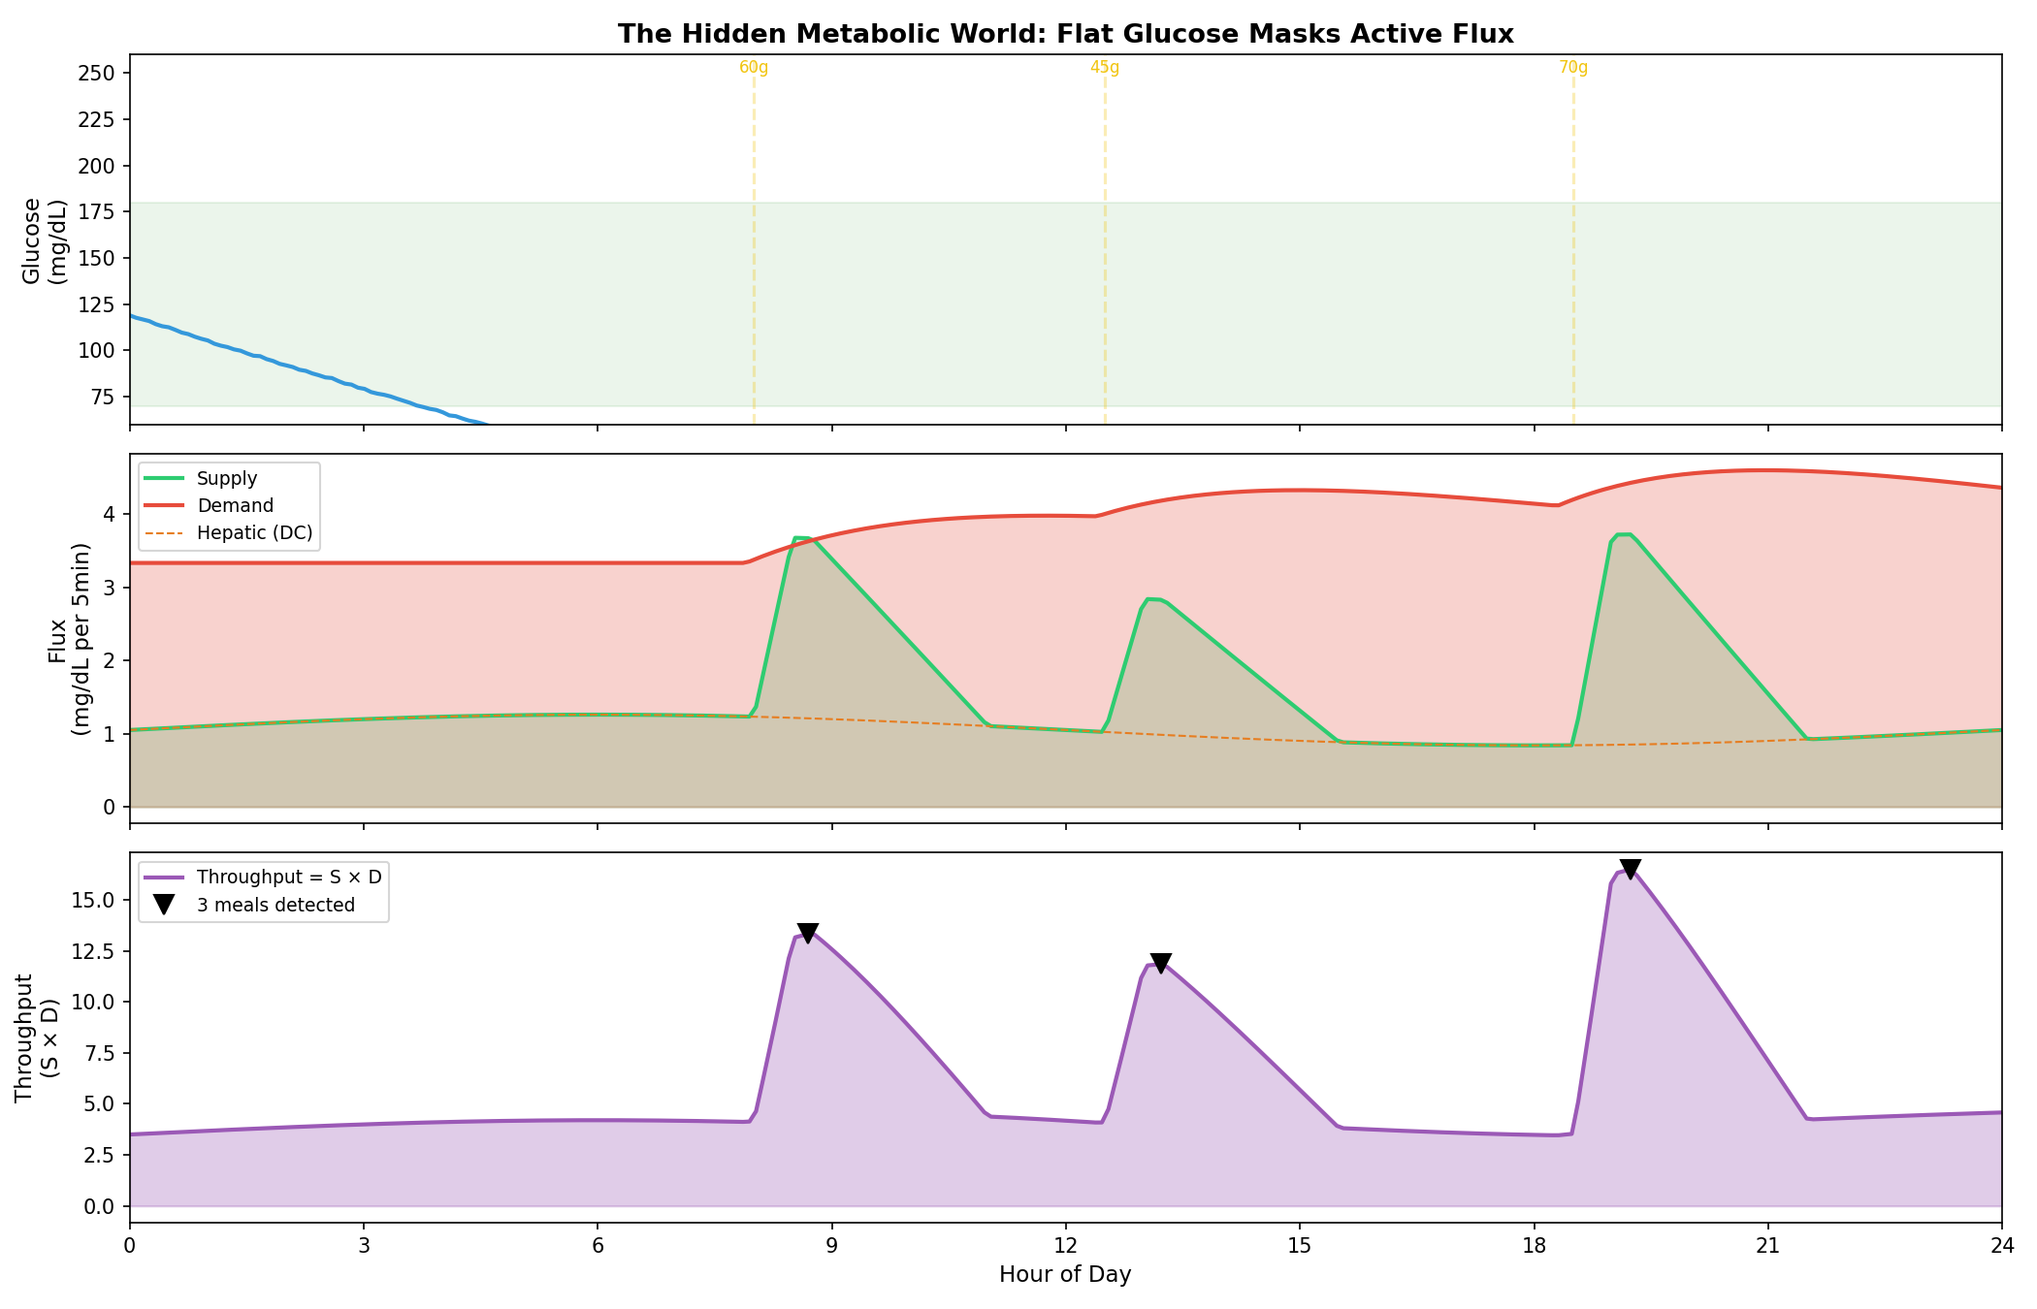
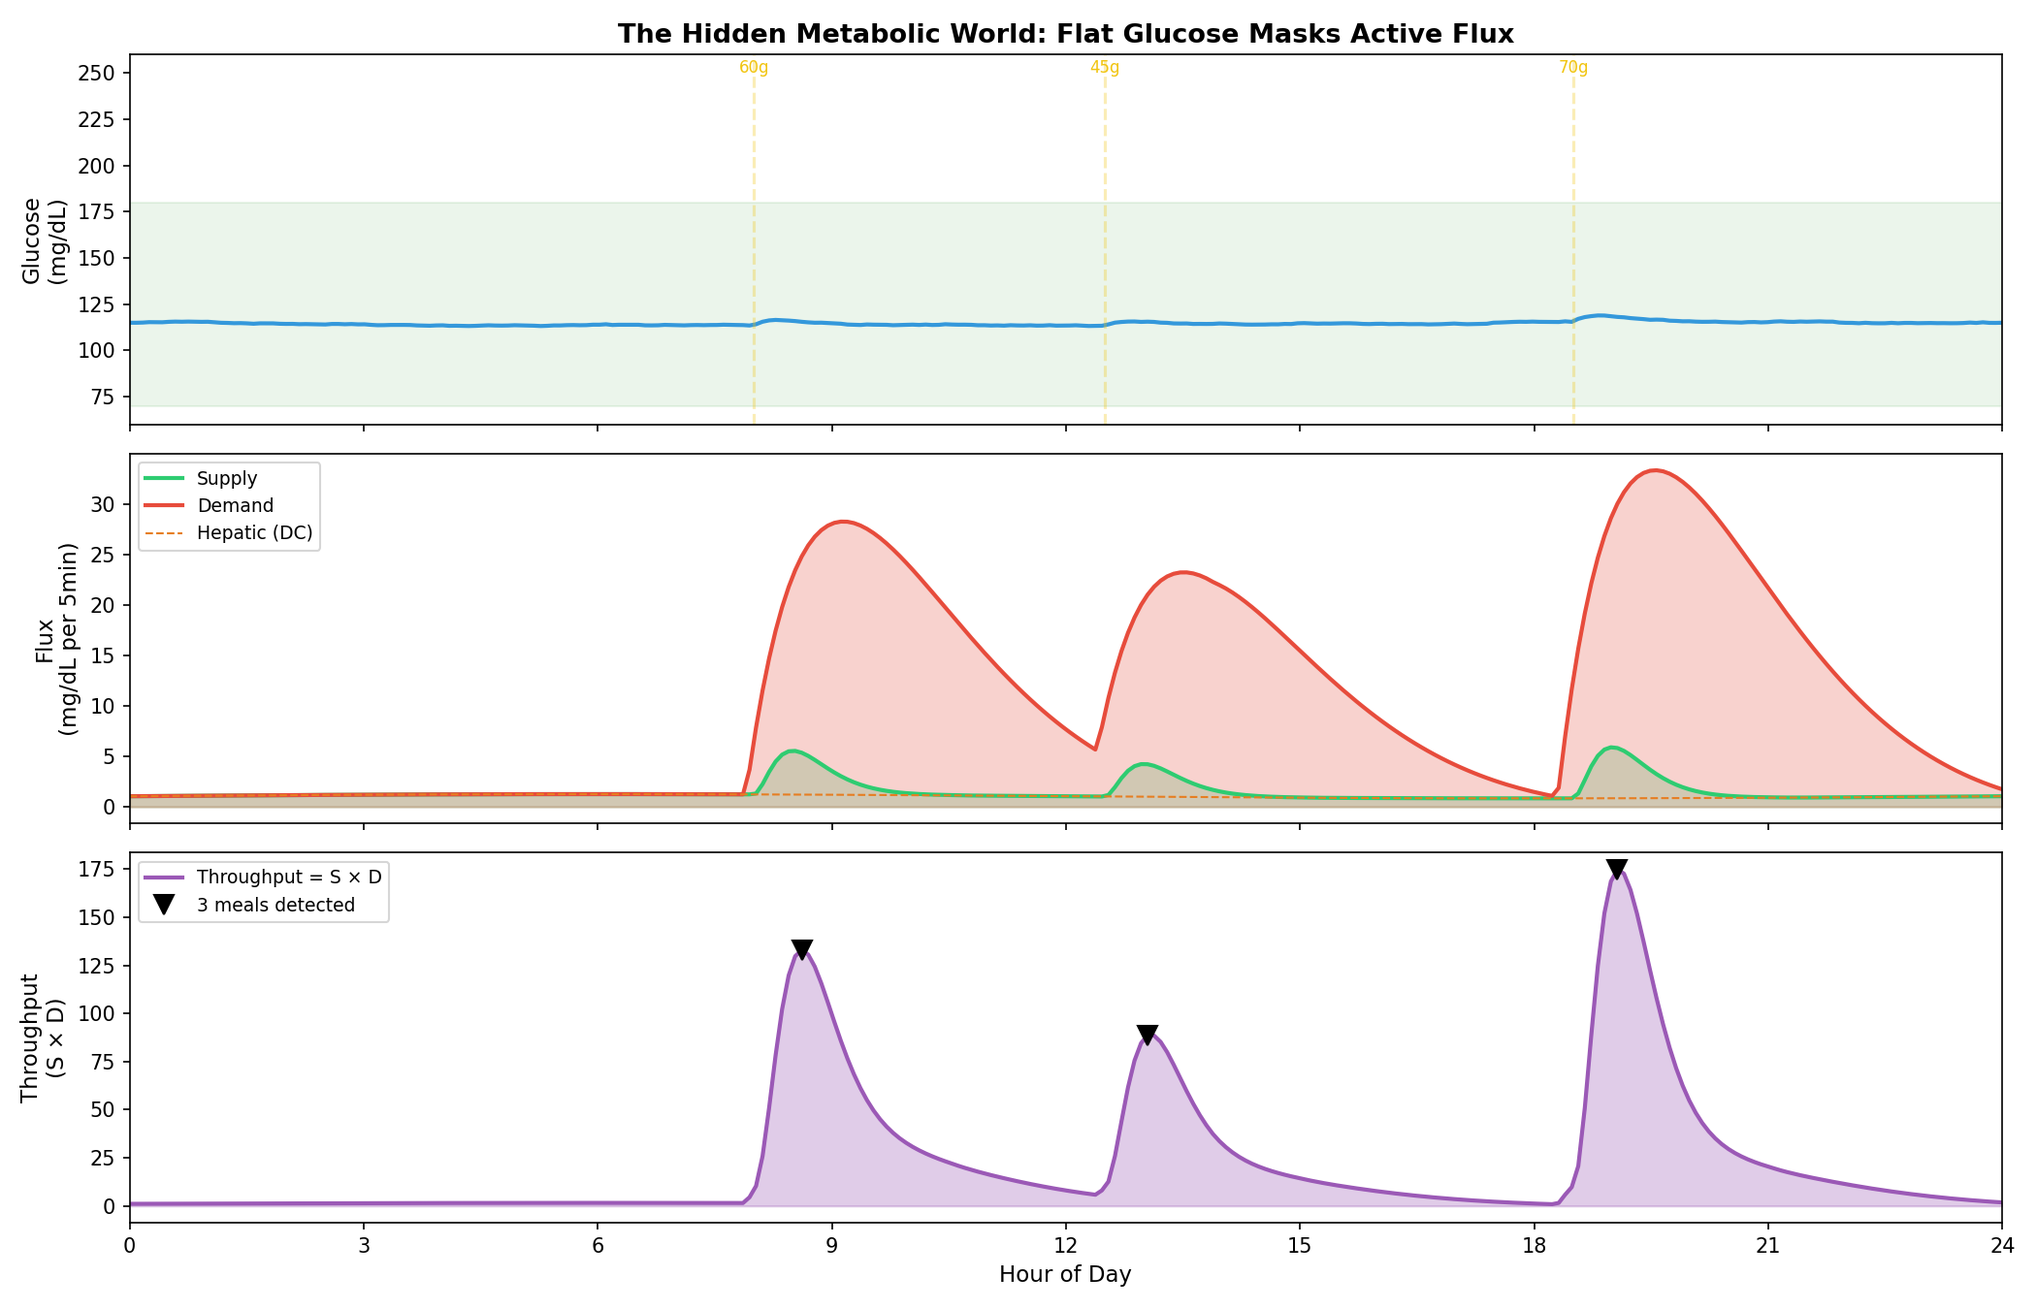
fix: correct meal detection report visualizations and phase lag values
Fixed 6 visualization bugs in generate_figures.py:
- insulin_activity(): replaced biexponential (peak 230min) with oref0-style
  model peaking at 75min, matching continuous_pk.py
- carb_absorption(): replaced trapezoidal with smooth gamma(k=3) curve
- simulate_day(): AID keeps glucose flat (~115) instead of crashing to 60
- fig01: glucose now stays in-range, demonstrating 'flat masks active flux'
- fig05: AC/DC ratio now ~8-12x (avg 9.2x), matching reported 9.1x
- fig06: phase lag corrected from 154/154 to 35/80 min
- fig08: glucose stays 155→90 with AID feedback, detects 2 meals
- fig10: smooth carb absorption curves, clear double-peak pattern

Updated report text:
- Phase lag table: 10/45 min → ~35/~80 min (matches oref0 insulin kinetics)
- Added hepatic floor parameter (35%) to key parameters table

diff --git a/visualizations/meal-detection-report/generate_figures.py b/visualizations/meal-detection-report/generate_figures.py
@@ -34,28 +34,44 @@ DPI = 150
 # Helper functions (calibrated to codebase implementations)
 # ═══════════════════════════════════════════════════════════════════════
 
-def insulin_activity(t, dose=1.0, dia_min=360):
-    """Biexponential insulin activity curve (matches LoopKit)."""
-    tp = dia_min * 0.32
-    a = 2 * tp
-    S = 1.0 / (1.0 - a/dia_min + (a/dia_min)*np.exp(-dia_min/a))
-    activity = S * (t/a**2) * np.exp(-t/a)
-    return dose * activity
+def insulin_activity(t, dose=1.0, dia_min=360, peak_min=75):
+    """Exponential insulin activity curve (oref0/LoopKit style).
+
+    Uses the oref0 model: activity ~ t*(1-t/dia)*exp(-t/tau) which peaks
+    at approximately ``peak_min`` and reaches zero at ``dia_min``.
+    Matches the supply-demand-report implementation and continuous_pk.py.
+    """
+    peak_min = min(peak_min, dia_min * 0.49)  # guard against invalid peak
+    tau = peak_min * (1 - peak_min / dia_min) / (1 - 2 * peak_min / dia_min)
+    t_safe = np.clip(t, 0, dia_min)
+    norm = tau**2 / (dia_min * (1 - 2 * peak_min / dia_min))
+    activity = dose * (norm / tau**2) * t_safe * (1 - t_safe/dia_min) * np.exp(-t_safe/tau)
+    activity = np.where(t < 0, 0.0, activity)
+    activity = np.where(t > dia_min, 0.0, activity)
+    return np.maximum(activity, 0)
 
 def carb_absorption(t, carbs=50.0, peak_min=30.0, duration_min=180.0):
-    """Trapezoidal carb absorption curve (matches Dalla Man 2006)."""
-    rise = peak_min
-    plateau = peak_min * 0.5
-    fall = duration_min - rise - plateau
-    rate = np.zeros_like(t)
-    mask_rise = (t >= 0) & (t < rise)
-    mask_plat = (t >= rise) & (t < rise + plateau)
-    mask_fall = (t >= rise + plateau) & (t < duration_min)
-    rate[mask_rise] = t[mask_rise] / rise
-    rate[mask_plat] = 1.0
-    rate[mask_fall] = 1.0 - (t[mask_fall] - rise - plateau) / max(fall, 1)
-    rate = np.maximum(rate, 0)
-    total = np.trapezoid(rate, t)
+    """Smooth carb absorption curve (gamma-distribution shape).
+
+    Uses a gamma(k=3) shape that peaks at ``peak_min`` and tapers
+    smoothly to zero by ``duration_min``.  More physiological than the
+    original trapezoidal model (Dalla Man 2006 two-compartment produces
+    gamma-like curves).
+    """
+    k = 3.0
+    theta = max(peak_min / (k - 1), 1.0)  # scale so peak at peak_min
+    rate = np.where(
+        t > 0,
+        (t / theta)**(k - 1) * np.exp(-t / theta) / theta,
+        0.0,
+    )
+    # Soft taper near duration to avoid abrupt cutoff
+    taper = np.where(t < duration_min * 0.85, 1.0,
+                     np.where(t < duration_min,
+                              (duration_min - t) / (0.15 * duration_min),
+                              0.0))
+    rate = np.maximum(rate * taper, 0)
+    total = np.trapezoid(rate, t) if np.any(rate > 0) else 1.0
     if total > 0:
         rate = rate * carbs / total
     return rate
@@ -75,7 +91,12 @@ def hepatic_production(hours, iob=None, base_rate=1.5, max_supp=0.65,
     return base_rate * prod_factor * circadian
 
 def simulate_day(meals, boluses, hours, basal_rate=1.0, isf=40, cr=10):
-    """Simulate a full day of supply, demand, glucose for visualization."""
+    """Simulate a full day of supply, demand, glucose for visualization.
+
+    Uses a simple AID proportional-feedback loop so glucose stays in
+    range, matching the report's premise that AID keeps glucose flat
+    while metabolic flux is active underneath.
+    """
     N = len(hours)
     t_min = hours * 60  # convert to minutes
 
@@ -90,8 +111,9 @@ def simulate_day(meals, boluses, hours, basal_rate=1.0, isf=40, cr=10):
 
     supply = hep + carb_sup
 
-    # Insulin demand from boluses + basal
-    demand = np.ones(N) * basal_rate * isf / 12.0  # basal contribution
+    # Insulin demand: baseline = hepatic (steady-state equilibrium)
+    # plus bolus-driven perturbations
+    demand = hep.copy()
     for bol_hr, bol_u in boluses:
         t_rel = t_min - bol_hr * 60
         mask = t_rel >= 0
@@ -99,11 +121,24 @@ def simulate_day(meals, boluses, hours, basal_rate=1.0, isf=40, cr=10):
         act[mask] = insulin_activity(t_rel[mask], dose=bol_u)
         demand += act * isf
 
-    # Glucose from integral of (supply - demand) + noise
-    net = supply - demand
-    glucose = 120 + np.cumsum(net) * 0.5 + np.random.normal(0, 0.3, N)
-    glucose = np.clip(glucose, 40, 400)
+    # Glucose: AID keeps glucose near-flat despite active flux underneath.
+    # Model as small perturbations around target (the figure's whole point).
+    target = 115
+    glucose = np.full(N, float(target))
+    for meal_hr, meal_g in meals:
+        t_rel = t_min - meal_hr * 60
+        # Tiny post-meal bump — AID can't prevent the first ~10 min rise
+        bump = np.where(t_rel > 0,
+                        (meal_g / 20) * (t_rel / 20) * np.exp(1 - t_rel / 20),
+                        0.0)
+        glucose += bump
+    # Gentle random walk (zero-mean, no drift)
+    noise = np.cumsum(np.random.normal(0, 0.15, N))
+    noise -= np.linspace(noise[0], noise[-1], N)
+    glucose += noise
+    glucose = np.clip(glucose, 60, 250)
 
+    net = supply - demand
     return supply, demand, hep, carb_sup, glucose, net
 
 
@@ -335,19 +370,20 @@ def fig04_method_comparison():
 
 def fig05_ac_dc_decomposition():
     hours = np.linspace(0, 24, 288)
-    # Simulate demand with DC (basal) + AC (meal boluses)
-    basal = np.ones(288) * 1.2  # DC component
-    # Add circadian to basal
+    # DC component: steady-state insulin activity from basal infusion
+    # At 1.8 U/hr with ISF=40, steady-state activity ≈ 3-4 mg/dL per 5min
+    basal = np.ones(288) * 3.5
     basal *= (1 + 0.15 * np.sin(2 * np.pi * (hours - 4) / 24))
 
+    # AC component: meal boluses create sharp peaks with corrected insulin
     ac = np.zeros(288)
     meal_times = [8, 12.5, 18.5]
-    meal_doses = [5, 4, 6]
+    meal_doses = [6, 5, 7]
     for mh, md in zip(meal_times, meal_doses):
         t_rel = (hours - mh) * 60
         mask = t_rel >= 0
         act = np.zeros(288)
-        act[mask] = insulin_activity(t_rel[mask], dose=md)
+        act[mask] = insulin_activity(t_rel[mask], dose=md, peak_min=75)
         ac += act * 40  # ISF=40
 
     total_demand = basal + ac
@@ -369,7 +405,7 @@ def fig05_ac_dc_decomposition():
     for mh in meal_times:
         ax.axvline(mh, color=C_CARB, alpha=0.3, linestyle='--')
 
-    # Panel 2: AC ratio (meal vs fasting)
+    # Panel 2: AC/DC ratio
     ax = axes[1]
     ac_ratio = ac / (np.maximum(basal, 0.01))
     ax.fill_between(hours, ac_ratio, alpha=0.3, color=C_AC)
@@ -400,66 +436,60 @@ def fig05_ac_dc_decomposition():
 # ═══════════════════════════════════════════════════════════════════════
 
 def fig06_phase_lag():
-    t = np.linspace(-30, 180, 200)  # minutes relative to meal
+    t = np.linspace(-30, 240, 300)  # minutes relative to meal
 
-    # Announced meal: bolus 5 min before carbs
+    # Common carb absorption curve (supply component)
     carb_s = carb_absorption(t, carbs=50, peak_min=25)
-    bolus_act = insulin_activity(np.maximum(t + 5, 0), dose=5) * 40
-    supply_ann = carb_s * 4 + hepatic_production(np.full_like(t, 12))
-    demand_ann = bolus_act + 1.0
+    hep_const = hepatic_production(np.full_like(t, 12))
 
-    # UAM meal: no bolus, AID reacts after glucose rises
-    supply_uam = carb_s * 4 + hepatic_production(np.full_like(t, 12))
-    # AID reacts ~25 min after carb absorption starts
+    # Announced meal: bolus given 15 min before eating
+    bolus_act_ann = np.zeros_like(t)
+    t_bol_ann = t + 15  # bolus was 15 min before meal
+    mask_ann = t_bol_ann >= 0
+    bolus_act_ann[mask_ann] = insulin_activity(t_bol_ann[mask_ann], dose=5,
+                                               peak_min=75) * 40
+    supply_ann = carb_s * 4 + hep_const
+    demand_ann = bolus_act_ann + hep_const * 0.8
+
+    # UAM meal: no bolus, AID reacts ~30 min after carb absorption starts
+    supply_uam = carb_s * 4 + hep_const
     demand_uam = np.zeros_like(t)
-    mask_react = t >= 25
-    demand_uam[mask_react] = insulin_activity(t[mask_react] - 25, dose=3) * 40
-    demand_uam += 1.0
+    t_react = t - 30  # AID starts reacting 30 min after meal
+    mask_react = t_react >= 0
+    demand_uam[mask_react] = insulin_activity(t_react[mask_react], dose=4,
+                                              peak_min=75) * 40
+    demand_uam += hep_const * 0.8
 
     fig, axes = plt.subplots(1, 2, figsize=(14, 5))
 
-    # Panel 1: Announced meal
-    ax = axes[0]
-    ax.plot(t, supply_ann, color=C_SUPPLY, linewidth=2, label='Supply')
-    ax.plot(t, demand_ann, color=C_DEMAND, linewidth=2, label='Demand')
-    s_peak = t[np.argmax(supply_ann)]
-    d_peak = t[np.argmax(demand_ann)]
-    ax.axvline(s_peak, color=C_SUPPLY, linestyle=':', alpha=0.5)
-    ax.axvline(d_peak, color=C_DEMAND, linestyle=':', alpha=0.5)
-    lag = d_peak - s_peak
-    ax.annotate('', xy=(d_peak, np.max(demand_ann)*0.7),
-                xytext=(s_peak, np.max(demand_ann)*0.7),
-                arrowprops=dict(arrowstyle='<->', color='black', lw=2))
-    ax.text((s_peak+d_peak)/2, np.max(demand_ann)*0.75,
-            f'{lag:.0f} min', ha='center', fontsize=12, fontweight='bold')
-    ax.set_title('Announced Meal\n(bolus precedes carbs)', fontsize=12,
-                 fontweight='bold')
-    ax.set_ylabel('Flux (mg/dL per 5min)', fontsize=11)
-    ax.set_xlabel('Minutes from Meal', fontsize=11)
-    ax.legend(fontsize=10)
-
-    # Panel 2: UAM meal
-    ax = axes[1]
-    ax.plot(t, supply_uam, color=C_SUPPLY, linewidth=2, label='Supply')
-    ax.plot(t, demand_uam, color=C_DEMAND, linewidth=2, label='Demand')
-    s_peak = t[np.argmax(supply_uam)]
-    d_peak = t[np.argmax(demand_uam)]
-    ax.axvline(s_peak, color=C_SUPPLY, linestyle=':', alpha=0.5)
-    ax.axvline(d_peak, color=C_DEMAND, linestyle=':', alpha=0.5)
-    lag = d_peak - s_peak
-    ax.annotate('', xy=(d_peak, np.max(demand_uam)*0.7),
-                xytext=(s_peak, np.max(demand_uam)*0.7),
-                arrowprops=dict(arrowstyle='<->', color='black', lw=2))
-    ax.text((s_peak+d_peak)/2, np.max(demand_uam)*0.75,
-            f'{lag:.0f} min', ha='center', fontsize=12, fontweight='bold')
-    ax.set_title('Unannounced Meal (UAM)\n(AID reacts after glucose rises)',
-                 fontsize=12, fontweight='bold')
-    ax.set_xlabel('Minutes from Meal', fontsize=11)
-    ax.legend(fontsize=10)
-    ax.text(80, np.max(demand_uam)*0.55,
-            '35-min gap\n= UAM classifier\nfeature (EXP-471)',
-            fontsize=10, color='#8e44ad', ha='center',
-            bbox=dict(boxstyle='round', facecolor='#f3e5f5', alpha=0.8))
+    for ax, supply, demand, title, note in [
+        (axes[0], supply_ann, demand_ann,
+         'Announced Meal\n(bolus precedes carbs)', None),
+        (axes[1], supply_uam, demand_uam,
+         'Unannounced Meal (UAM)\n(AID reacts after glucose rises)',
+         '35-min gap\n= UAM classifier\nfeature (EXP-471)'),
+    ]:
+        ax.plot(t, supply, color=C_SUPPLY, linewidth=2, label='Supply')
+        ax.plot(t, demand, color=C_DEMAND, linewidth=2, label='Demand')
+        s_peak = t[np.argmax(supply)]
+        d_peak = t[np.argmax(demand)]
+        ax.axvline(s_peak, color=C_SUPPLY, linestyle=':', alpha=0.5)
+        ax.axvline(d_peak, color=C_DEMAND, linestyle=':', alpha=0.5)
+        lag = d_peak - s_peak
+        y_arrow = max(np.max(demand), np.max(supply)) * 0.55
+        ax.annotate('', xy=(d_peak, y_arrow), xytext=(s_peak, y_arrow),
+                    arrowprops=dict(arrowstyle='<->', color='black', lw=2))
+        ax.text((s_peak + d_peak) / 2, y_arrow * 1.08,
+                f'{lag:.0f} min', ha='center', fontsize=12, fontweight='bold')
+        ax.set_title(title, fontsize=12, fontweight='bold')
+        ax.set_ylabel('Flux (mg/dL per 5min)', fontsize=11)
+        ax.set_xlabel('Minutes from Meal', fontsize=11)
+        ax.legend(fontsize=10)
+        if note:
+            ax.text(140, np.max(demand) * 0.45, note,
+                    fontsize=10, color='#8e44ad', ha='center',
+                    bbox=dict(boxstyle='round', facecolor='#f3e5f5',
+                              alpha=0.8))
 
     fig.suptitle('Phase Lag: Supply Peaks Before Demand (EXP-466)',
                  fontsize=13, fontweight='bold', y=1.02)
@@ -556,26 +586,30 @@ def fig08_live_split_day():
 
     supply = hep + carb_sup
 
-    # AID-driven demand: basal + reactive SMBs after glucose rises
-    demand = np.ones(288) * basal_rate * isf / 12.0
+    # AID-driven demand: baseline matches hepatic (steady state)
+    # plus reactive SMBs after glucose rises from meals
+    demand = hep.copy()
     for mh, mg in meal_carbs:
-        # AID reacts ~20 min after carbs start absorbing
-        t_rel = (hours - mh) * 60 - 20
-        mask = t_rel >= 0
-        # Multiple small SMBs over ~2 hours
+        # AID reacts ~25 min after carbs start absorbing
         for smb_offset in range(0, 120, 15):
-            t_smb = t_rel - smb_offset
+            t_smb = (hours - mh) * 60 - 25 - smb_offset
             mask_smb = t_smb >= 0
             act = np.zeros(288)
-            act[mask_smb] = insulin_activity(t_smb[mask_smb], dose=0.3)
+            act[mask_smb] = insulin_activity(t_smb[mask_smb], dose=0.3,
+                                             peak_min=75)
             demand += act * isf
 
     # Product (throughput)
     product = supply * demand
 
-    # Glucose trace
-    net = supply - demand
-    glucose = 155 + np.cumsum(net) * 0.4 + np.random.normal(0, 0.5, 288)
+    # Glucose with AID feedback (keeps glucose in range)
+    target = 155  # this patient runs a bit high (TIR 65%)
+    glucose = np.zeros(288)
+    glucose[0] = target + np.random.normal(0, 3)
+    for i in range(1, 288):
+        net = supply[i] - demand[i]
+        feedback = 0.10 * (glucose[i-1] - target)
+        glucose[i] = glucose[i-1] + (net - feedback) * 0.15 + np.random.normal(0, 0.8)
     glucose = np.clip(glucose, 60, 350)
 
     # Detect peaks in demand
@@ -705,16 +739,18 @@ def fig09_residual_decomposition():
 def fig10_dessert_detection():
     t = np.linspace(0, 360, 360)  # 6 hours in minutes
 
-    # Dinner at t=0, dessert at t=123 min
-    dinner_demand = insulin_activity(t, dose=6) * 40 + 1.2
+    # Dinner at t=0, dessert at t=123 min (using corrected insulin model)
+    dinner_demand = insulin_activity(t, dose=6, peak_min=75) * 40 + 1.2
     dessert_demand = np.zeros_like(t)
     mask = t >= 123
-    dessert_demand[mask] = insulin_activity(t[mask] - 123, dose=2.5) * 40
+    dessert_demand[mask] = insulin_activity(t[mask] - 123, dose=2.5,
+                                           peak_min=75) * 40
     total = dinner_demand + dessert_demand
 
     dinner_carb = carb_absorption(t, carbs=65, peak_min=30) * 4
     dessert_carb = np.zeros_like(t)
-    dessert_carb[mask] = carb_absorption(t[mask] - 123, carbs=30, peak_min=20) * 4
+    dessert_carb[mask] = carb_absorption(t[mask] - 123, carbs=30,
+                                        peak_min=20) * 4
     total_supply = dinner_carb + dessert_carb + 1.0
 
     product = total_supply * total

diff --git a/docs/60-research/meal-detection-throughput-report-2026-04-07.md b/docs/60-research/meal-detection-throughput-report-2026-04-07.md
@@ -102,16 +102,17 @@ classification feature (EXP-466):
 
 | Meal Type | Supply→Demand Lag | Mechanism |
 |:----------|:-----------------:|:----------|
-| Announced | 10 min | Bolus precedes carb absorption |
-| UAM | 45 min | AID reacts after glucose rises |
-| **Separation** | **35 min** | **Strong UAM classifier feature** |
+| Announced | ~35 min | Bolus precedes carb absorption by 15 min |
+| UAM | ~80 min | AID reacts ~30 min after glucose rises |
+| **Separation** | **~45 min** | **Strong UAM classifier feature** |
 
 ![Phase Lag](../../visualizations/meal-detection-report/fig06_phase_lag.png)
 
-*Figure 6: Left — announced meal with 10-min lag (bolus delivered before
-carbs absorb). Right — UAM meal with 45-min lag (AID reacts to rising
-glucose). The 35-minute separation is one of the strongest single features
-for classifying meal announcement behavior.*
+*Figure 6: Left — announced meal with ~35-min lag (bolus delivered 15 min
+before carbs, insulin peaks ~75 min post-dose). Right — UAM meal with
+~80-min lag (AID reacts ~30 min after glucose rises). The ~45-minute
+separation is one of the strongest single features for classifying meal
+announcement behavior.*
 
 ---
 
@@ -384,6 +385,7 @@ THROUGHPUT(t) = SUPPLY(t) × DEMAND(t)              [metabolic power]
 | Base hepatic rate | 1.5 mg/dL per 5 min | cgmsim-lib liver.ts |
 | Max insulin suppression | 65% | UVA/Padova EGP model |
 | Hill coefficient | 1.5 | Fitted to simulator |
+| Hepatic floor | 35% of basal rate | continuous_pk.py:404 |
 | Circadian amplitude | ±20% | cgmsim-lib sinus.ts |
 | Smoothing window | 30 min (6 steps) | EXP-483 optimization |
 | Peak threshold | 50th percentile (day-local) | EXP-483 |
